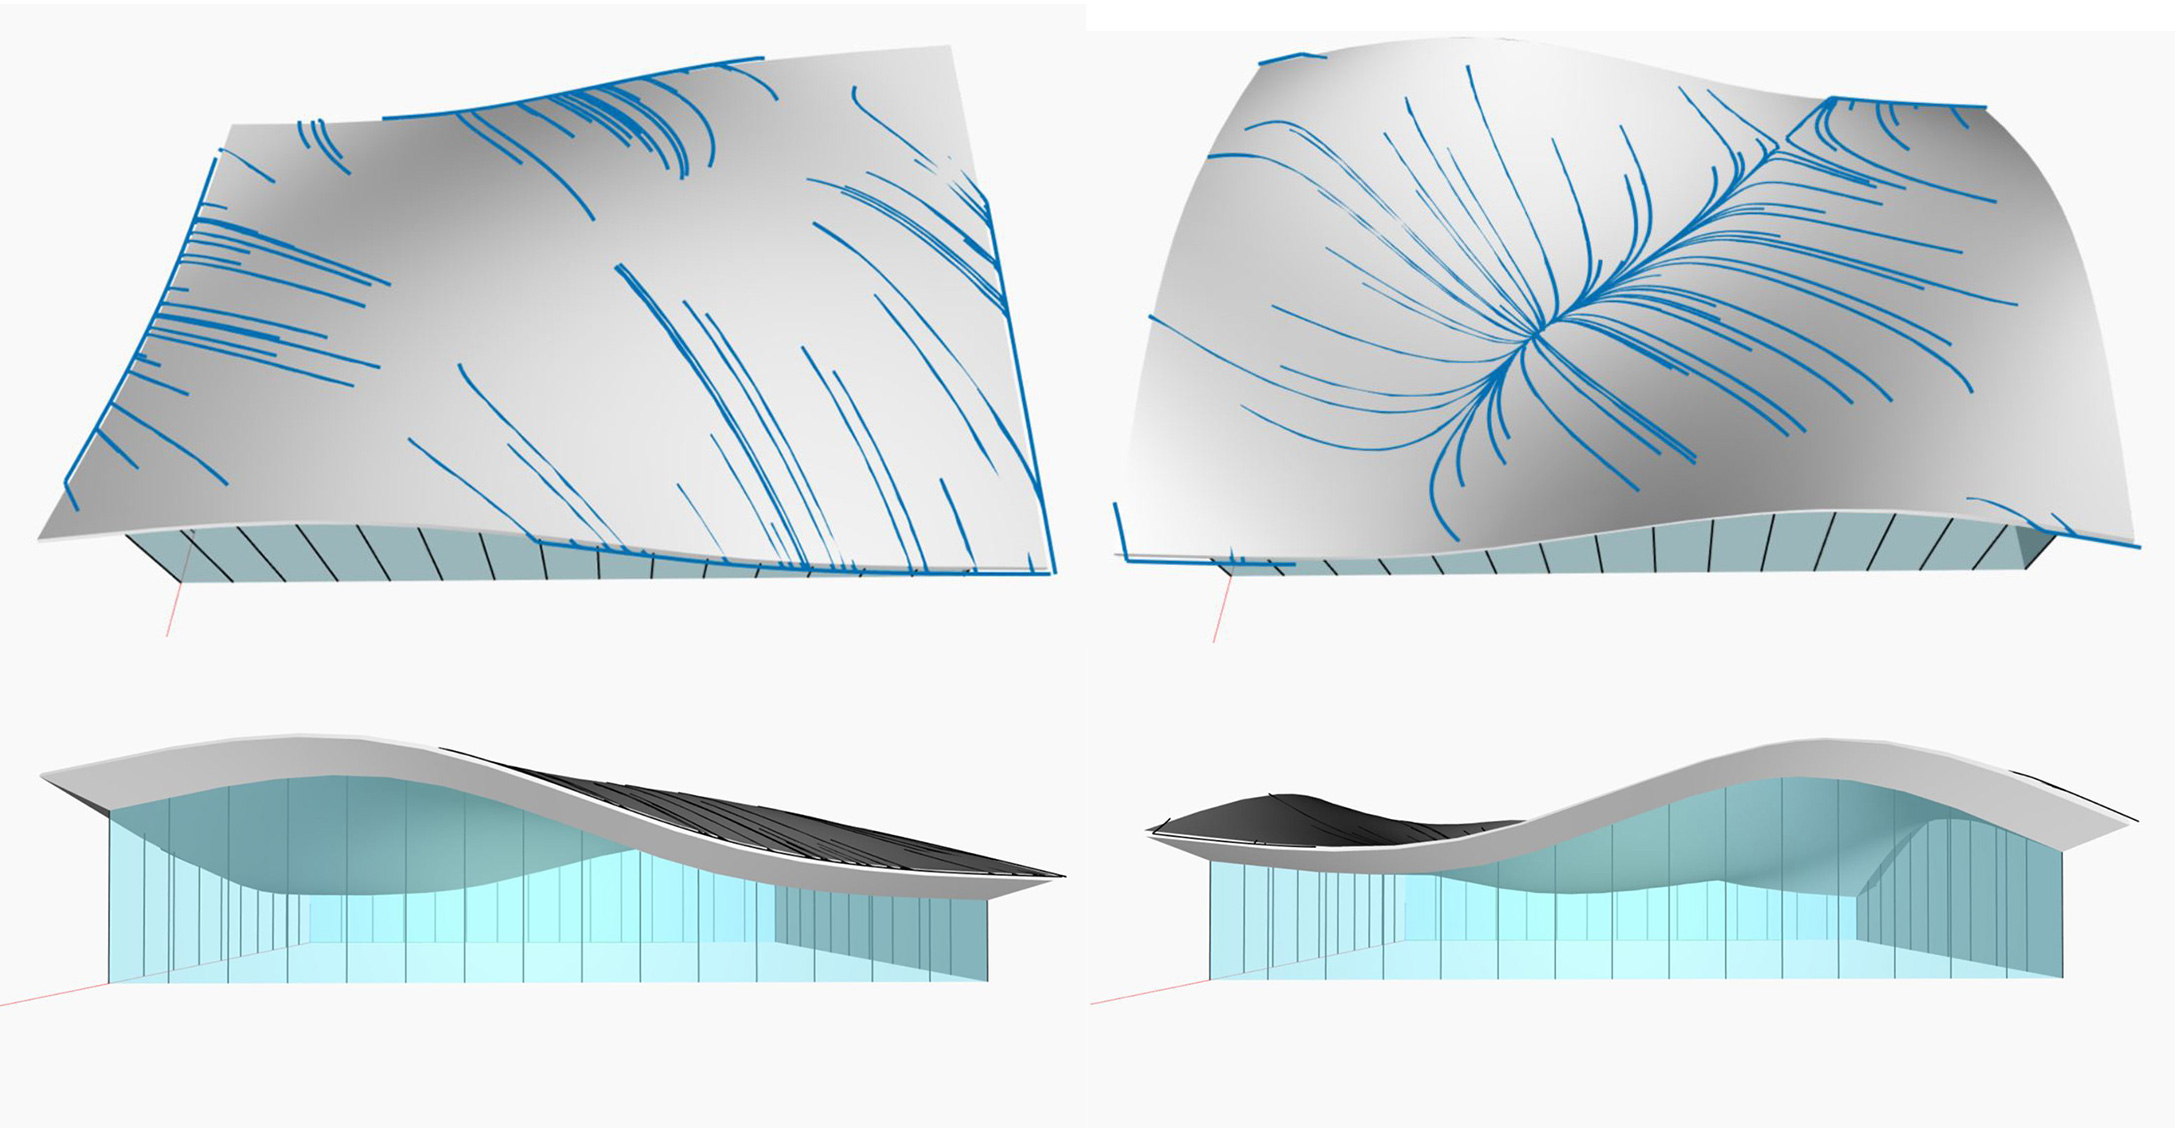
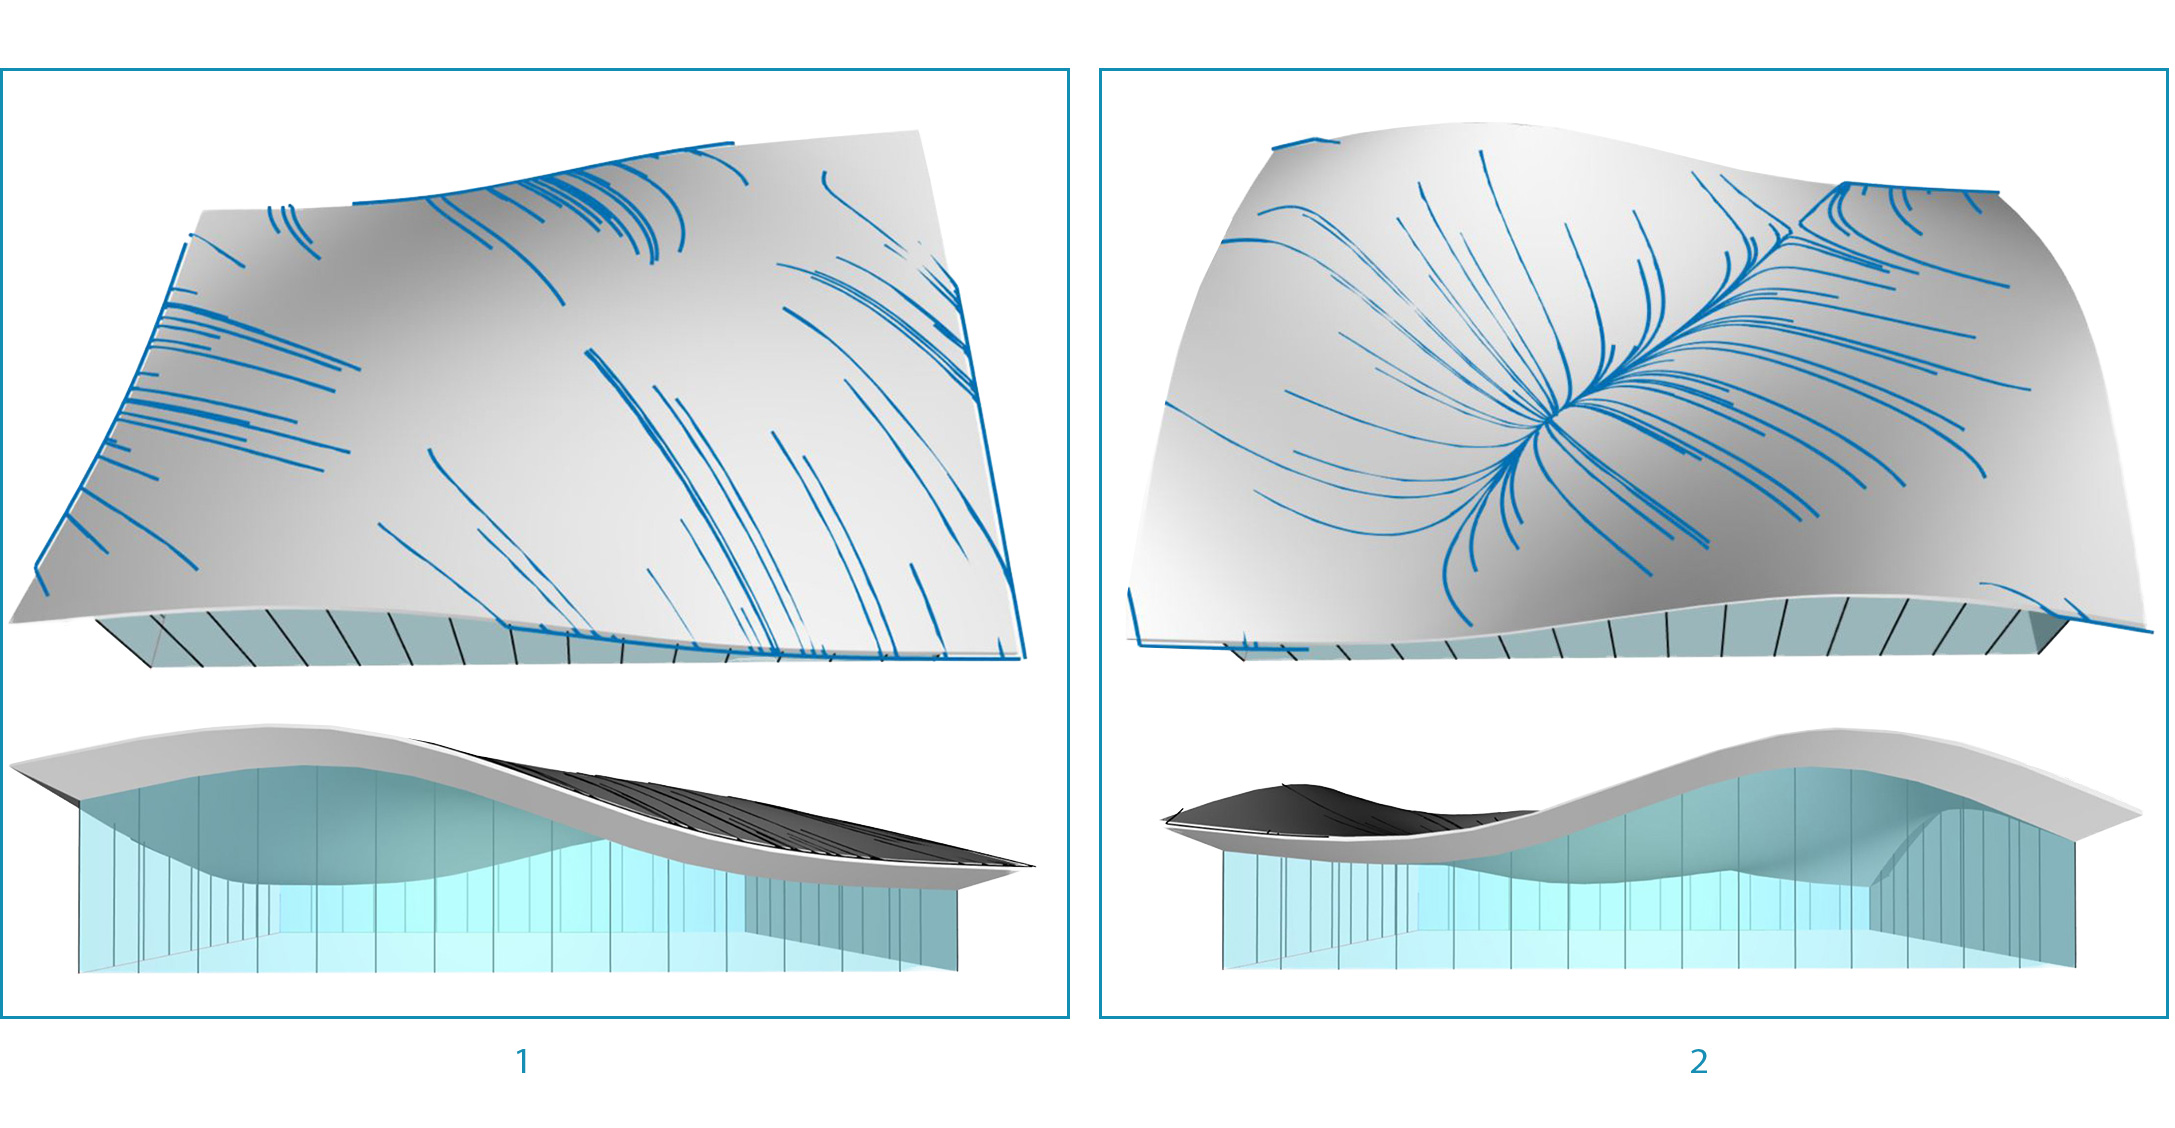
Updates 12_Best-Practice/images/12-2/3-5.jpg
Auto commit by GitBook Editor

diff --git a/12_Best-Practice/12-2_Graph-Strategies.md b/12_Best-Practice/12-2_Graph-Strategies.md
@@ -220,14 +220,14 @@ As a final step, create presets for exemplary roof forms.
 
 ![presets](images/12-2/3-3.jpg)
 
-> These inputs are the primary drivers of the roof form. Presets will help users see the potential of the program. 
+> These inputs are the primary drivers of the roof form. Presets will help users see the potential of the program. They are numbered according to their respective presets.
 
-> 1. Preset 1
-> 2. Preset 2
-> 3. Preset 3
-
-Our program with views of several presets.
+Our program with views of two presets.
 
 ![presets](images/12-2/3-4.jpg)
 
+> Open this image in a new tab to zoom in.
+
 ![presets](images/12-2/3-5.jpg)
+
+> The roof drainage patterns give the user an analytical view of the respective presets.
